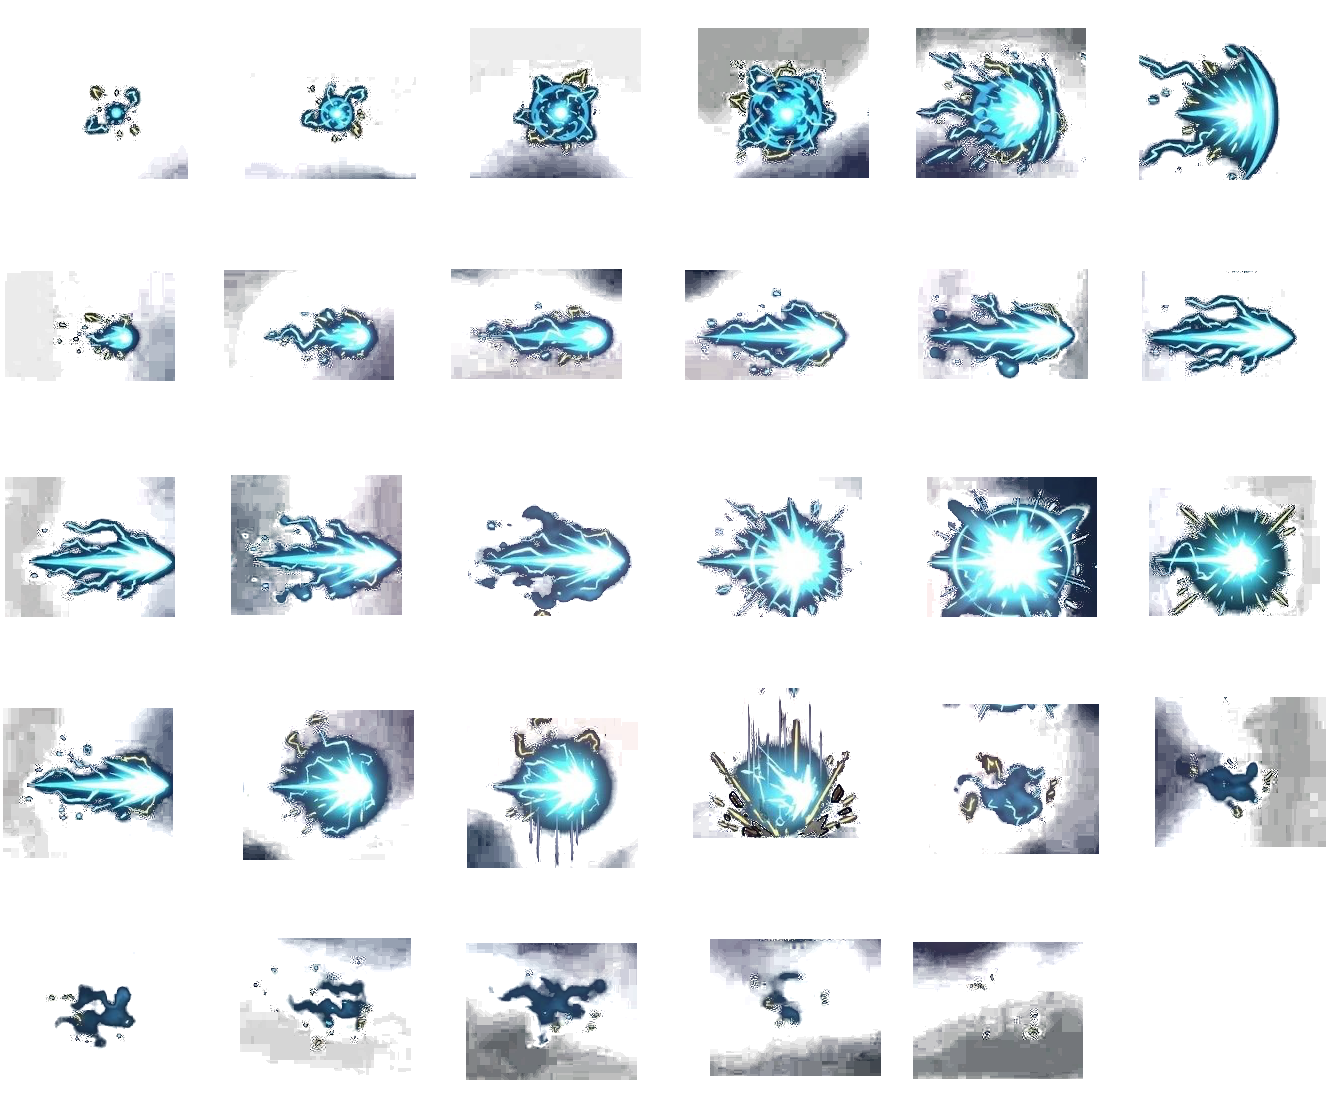
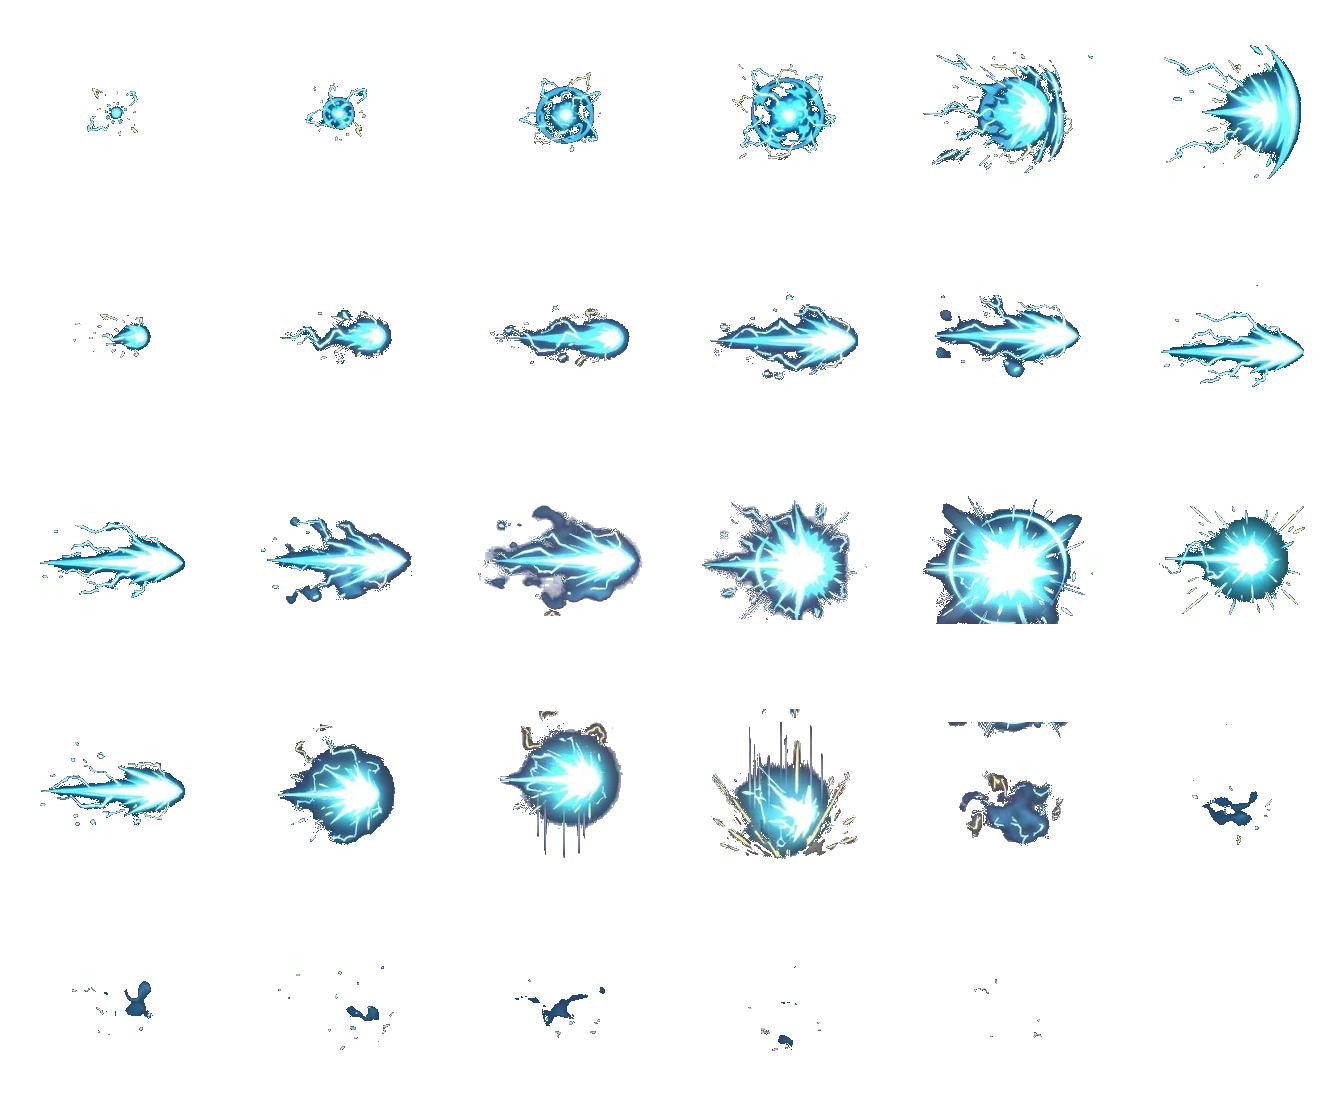
fix: remove square background cut by isolating true foreground and zeroing border alpha

diff --git a/src/bolt.js b/src/bolt.js
@@ -130,16 +130,6 @@ export class Bolt {
       ctx.translate(this.x, cy);
       ctx.scale(this.dir * s, s);
 
-      // Cyan ambient energy aura
-      if (this.stage !== 'impact' || this.frame <= 18) {
-        const glowRadius = this.frame === 16 ? 72 : 44;
-        const g = ctx.createRadialGradient(0, 0, 0, 0, 0, glowRadius);
-        g.addColorStop(0, this.frame === 16 ? 'rgba(180,240,255,0.7)' : 'rgba(100,220,255,0.4)');
-        g.addColorStop(1, 'rgba(80,180,255,0)');
-        ctx.fillStyle = g;
-        ctx.fillRect(-glowRadius, -glowRadius, glowRadius * 2, glowRadius * 2);
-      }
-
       ctx.drawImage(
         boltSheet,
         sx,
